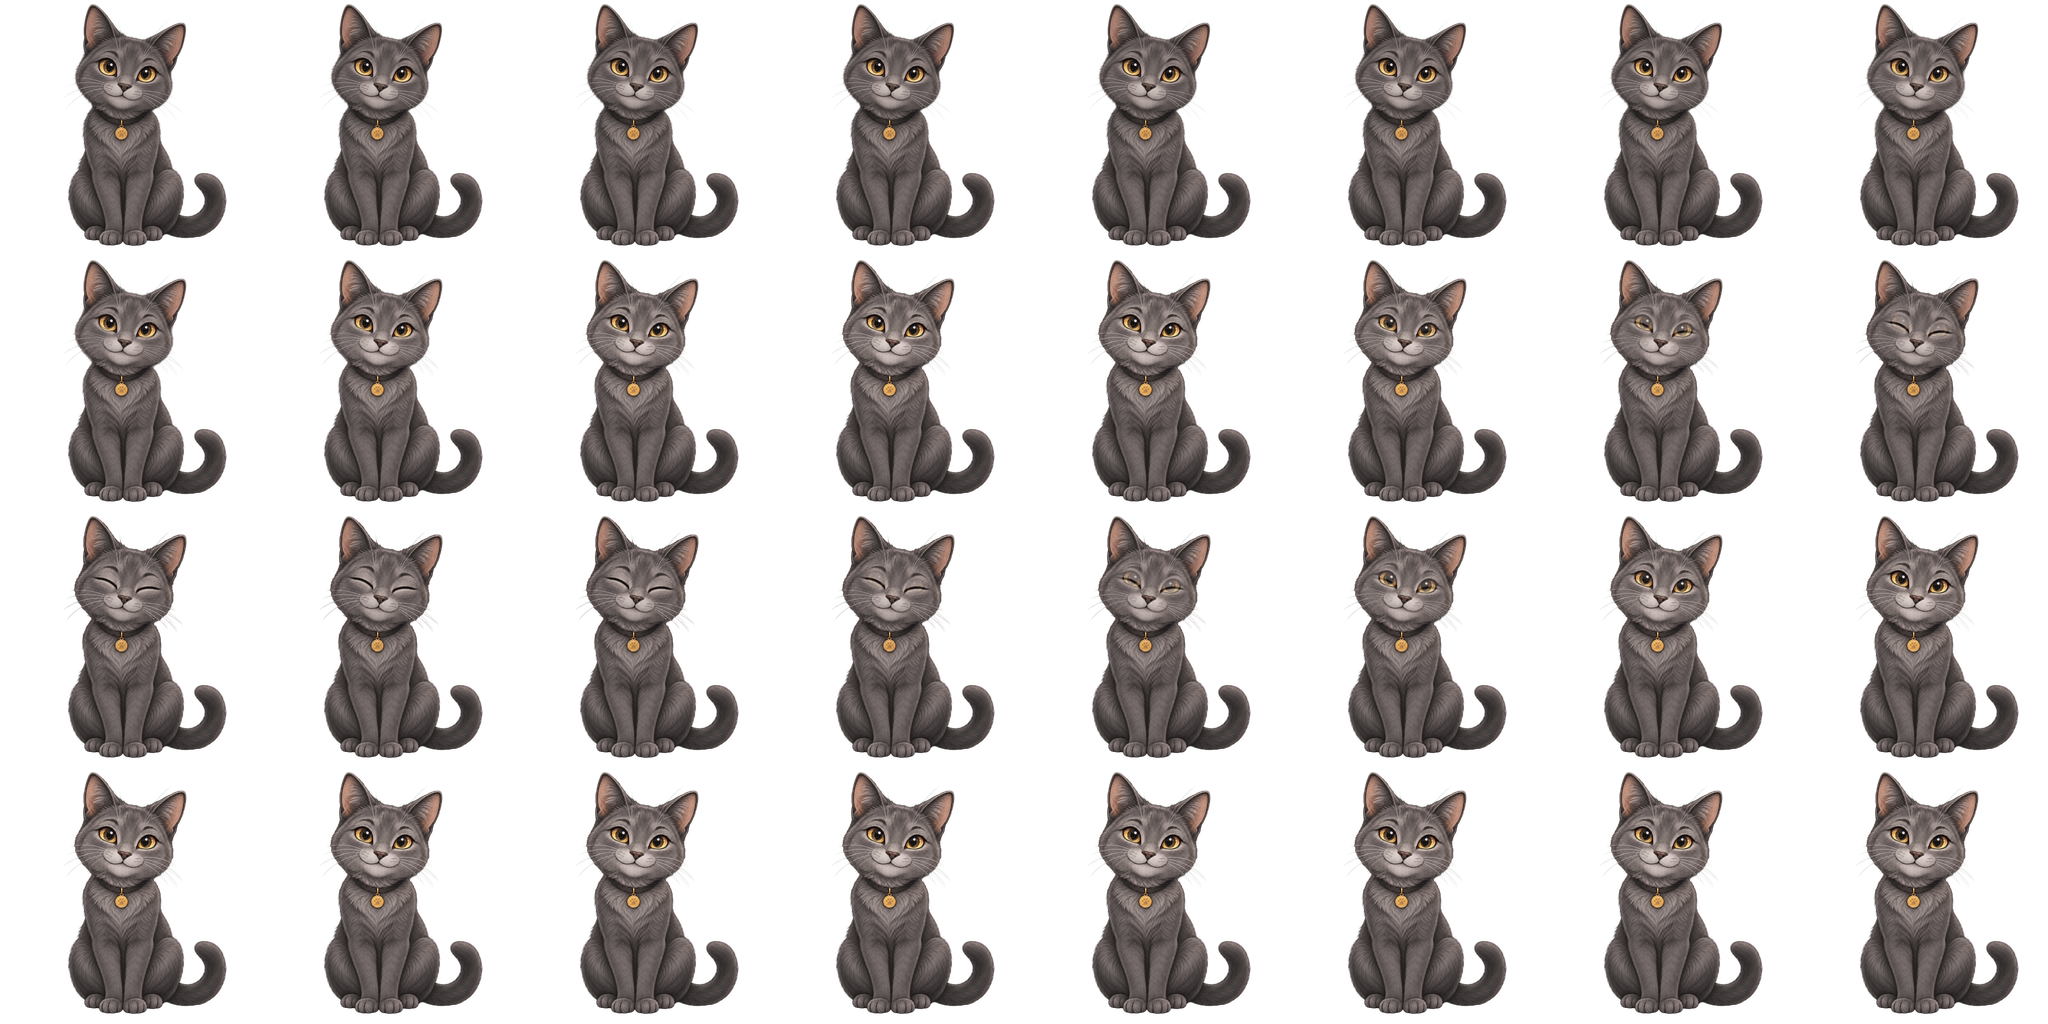
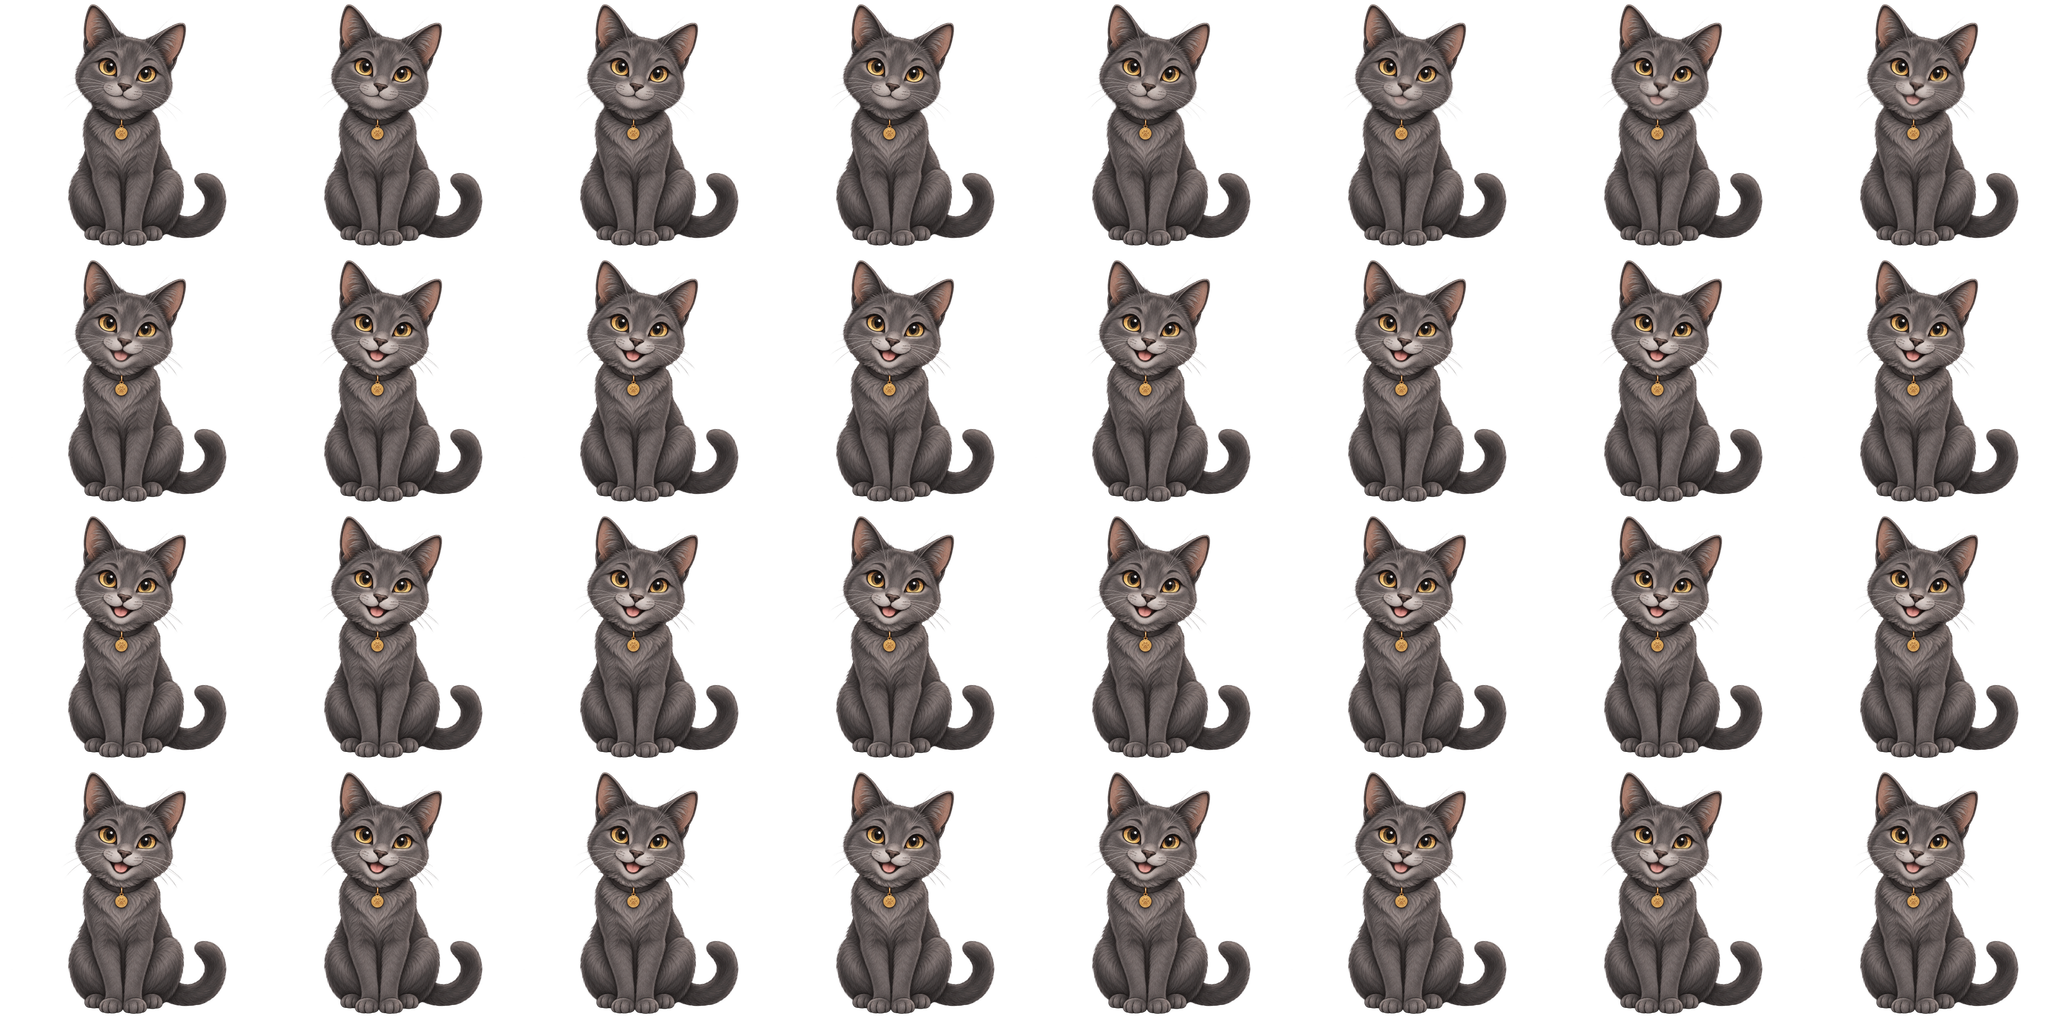
Make companion smile visually distinct

diff --git a/scripts/build-companion-smile-sheet.ts b/scripts/build-companion-smile-sheet.ts
@@ -13,7 +13,11 @@ const imagesRoot = resolve("site/public/images");
 const starterRoot = resolve("starter/site/public/images");
 
 async function rgba(path: string) {
-  const { data, info } = await sharp(path).ensureAlpha().raw().toBuffer({ resolveWithObject: true });
+  const { data, info } = await sharp(path)
+    .resize(sourceSize, sourceSize, { fit: "fill" })
+    .ensureAlpha()
+    .raw()
+    .toBuffer({ resolveWithObject: true });
   if (info.width !== sourceSize || info.height !== sourceSize || info.channels !== 4) {
     throw new Error(`${path} must be a ${sourceSize}x${sourceSize} RGBA image.`);
   }
@@ -26,24 +30,25 @@ function smoothstep(value: number) {
 }
 
 function amounts(frame: number) {
-  const smile = frame < 5 ? 0 : smoothstep((frame - 5) / 6);
-  const blink = frame < 12
+  const smile = frame < 3
     ? 0
-    : frame <= 16
-      ? smoothstep((frame - 12) / 4)
-      : frame <= 18
+    : frame <= 10
+      ? smoothstep((frame - 3) / 7)
+      : frame <= 25
         ? 1
-        : frame <= 23
-          ? 1 - smoothstep((frame - 18) / 5)
-          : 0;
-  return { smile, blink };
+        : 1 - 0.12 * smoothstep((frame - 25) / 6);
+  return { smile };
 }
 
-function faceMask(x: number, y: number) {
-  const dx = (x - 512) / 365;
-  const dy = (y - 300) / 300;
+function ellipseMask(x: number, y: number, centerX: number, centerY: number, radiusX: number, radiusY: number) {
+  const dx = (x - centerX) / radiusX;
+  const dy = (y - centerY) / radiusY;
   const distance = Math.sqrt(dx * dx + dy * dy);
-  return 1 - smoothstep((distance - 0.82) / 0.2);
+  return 1 - smoothstep((distance - 0.78) / 0.22);
+}
+
+function expressionMask(x: number, y: number) {
+  return ellipseMask(x, y, 512, 420, 255, 125);
 }
 
 function blend(target: Uint8Array, overlay: Uint8Array, amount: number, mask: number, offset: number) {
@@ -57,9 +62,9 @@ function blend(target: Uint8Array, overlay: Uint8Array, amount: number, mask: nu
 }
 
 const idle = await rgba(resolve(imagesRoot, "resumilio-cat-idle.png"));
-const smile = await rgba(resolve(imagesRoot, "resumilio-cat-smile.png"));
-const blink = await rgba(resolve(imagesRoot, "resumilio-cat-blink.png"));
+const smile = await rgba(resolve("assets/companion/resumilio-cat-smile-expression.png"));
 const frames: Buffer[] = [];
+let staticSmile: Buffer | undefined;
 
 for (let frame = 0; frame < frameCount; frame += 1) {
   const rendered = new Uint8Array(idle);
@@ -67,10 +72,11 @@ for (let frame = 0; frame < frameCount; frame += 1) {
   for (let y = 0; y < sourceSize; y += 1) {
     for (let x = 0; x < sourceSize; x += 1) {
       const offset = (y * sourceSize + x) * 4;
-      const mask = faceMask(x, y);
-      blend(rendered, smile, state.smile, mask, offset);
-      blend(rendered, blink, state.blink, mask, offset);
+      blend(rendered, smile, state.smile, expressionMask(x, y), offset);
     }
+  }
+  if (frame === 18) {
+    staticSmile = await sharp(rendered, { raw: { width: sourceSize, height: sourceSize, channels: 4 } }).png().toBuffer();
   }
   frames.push(await sharp(rendered, { raw: { width: sourceSize, height: sourceSize, channels: 4 } })
     .resize(frameSize, frameSize, { fit: "fill" })
@@ -95,6 +101,9 @@ const sheet = await sharp({
   .toBuffer();
 
 const fileName = "resumilio-cat-smile-sheet.png";
+if (!staticSmile) throw new Error("Static smiling pose was not generated.");
+await writeFile(resolve(imagesRoot, "resumilio-cat-smile.png"), staticSmile);
+await writeFile(resolve(starterRoot, "resumilio-cat-smile.png"), staticSmile);
 await writeFile(resolve(imagesRoot, fileName), sheet);
 await writeFile(resolve(starterRoot, fileName), sheet);
 console.log(`Built ${frameCount}-frame smile sprite sheet at 14 fps: ${fileName}`);

diff --git a/scripts/verify-companion-assets.ts b/scripts/verify-companion-assets.ts
@@ -81,10 +81,38 @@ for (let frame = 0; frame < spriteFrames; frame += 1) {
   else if (!pawAnchor.equals(anchor)) throw new Error(`Smile frame ${frame} moved the body or paws outside the face-only animation region.`);
 }
 
+async function spriteRegion(frame: number, left: number, top: number, width: number, height: number) {
+  return sharp(siteSpritePath)
+    .extract({
+      left: (frame % spriteColumns) * spriteFrameSize + left,
+      top: Math.floor(frame / spriteColumns) * spriteFrameSize + top,
+      width,
+      height,
+    })
+    .raw()
+    .toBuffer();
+}
+
+function meanAbsoluteDifference(first: Buffer, second: Buffer) {
+  if (first.length !== second.length) throw new Error("Cannot compare sprite regions with different sizes.");
+  let difference = 0;
+  for (let index = 0; index < first.length; index += 1) difference += Math.abs(first[index] - second[index]);
+  return difference / first.length;
+}
+
+const idleMouth = await spriteRegion(0, 88, 78, 80, 55);
+const smilingMouth = await spriteRegion(18, 88, 78, 80, 55);
+const idleEyes = await spriteRegion(0, 72, 45, 112, 45);
+const smilingEyes = await spriteRegion(18, 72, 45, 112, 45);
+const mouthDifference = meanAbsoluteDifference(idleMouth, smilingMouth);
+const eyeDifference = meanAbsoluteDifference(idleEyes, smilingEyes);
+if (mouthDifference < 10) throw new Error(`Smile does not change the mouth strongly enough (${mouthDifference.toFixed(2)} MAE).`);
+if (eyeDifference > 5) throw new Error(`Smile changes the eye region too much and may read as another blink (${eyeDifference.toFixed(2)} MAE).`);
+
 const css = await readFile(resolve("site/styles/global.css"), "utf8");
 if (!css.includes("2.285714s steps(1,end)")) throw new Error("Smile sheet is not configured for 32 frames at 14 fps.");
 for (const animation of ["cat-breathe", "cat-blink", "cat-waiting", "cat-nod", "cat-smile-frames", "cat-guide-wide", "cat-guide-mobile"]) {
   if (!css.includes(`@keyframes ${animation}`)) throw new Error(`Missing smooth companion animation: ${animation}.`);
 }
 
-console.log(JSON.stringify({ ok: true, poses: results, smileSprite: { frames: spriteFrames, fps: 14, width: spriteMetadata.width, height: spriteMetadata.height, pawsAnchored: true }, motion: "hybrid-css-and-sprite" }, null, 2));
+console.log(JSON.stringify({ ok: true, poses: results, smileSprite: { frames: spriteFrames, fps: 14, width: spriteMetadata.width, height: spriteMetadata.height, pawsAnchored: true, mouthDifference, eyeDifference, distinctFromBlink: true }, motion: "hybrid-css-and-sprite" }, null, 2));

diff --git a/README.md b/README.md
@@ -51,7 +51,7 @@ Initialization never changes global agent configuration.
 
 ## Companion animation
 
-The default companion uses five registered transparent illustration poses plus a real 32-frame, 8×4 smile sprite sheet played at 14 fps—no canvas or WebGL. CSS motion supplies slow breathing, blinking, waiting, nodding, desktop pointing, and mobile downward guidance; the sprite sequence animates the face while the body and paws remain pixel-anchored. Replace the matching `public/images/resumilio-cat-*.png` files with equally sized transparent assets, or disable the companion in `resumilio.config.json` without affecting the constellation. `prefers-reduced-motion` keeps the same interaction states with static pose handoffs.
+The default companion uses five registered transparent illustration poses plus a real 32-frame, 8×4 smile sprite sheet played at 14 fps—no canvas or WebGL. CSS motion supplies slow breathing, blinking, waiting, nodding, desktop pointing, and mobile downward guidance; the sprite sequence opens the mouth into a clearly separate smile while the eyes stay bright and the body and paws remain pixel-anchored. Replace the matching `public/images/resumilio-cat-*.png` files with equally sized transparent assets, or disable the companion in `resumilio.config.json` without affecting the constellation. `prefers-reduced-motion` keeps the same interaction states with static pose handoffs.
 
 ## Public resources, not private files
 
